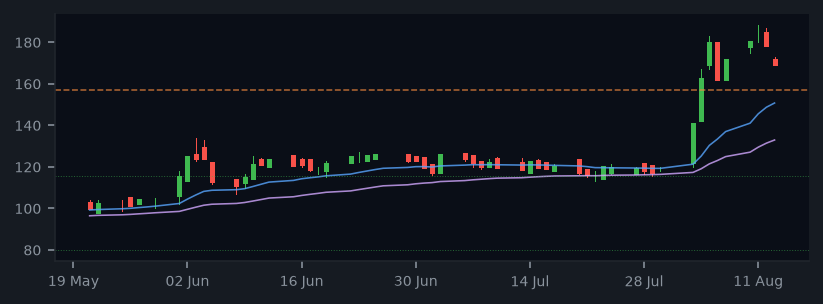
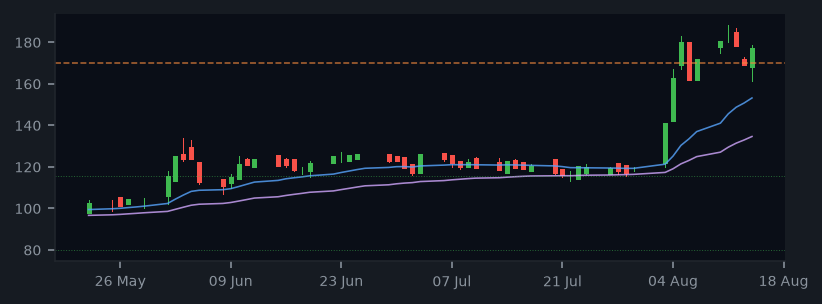
Update $(date +%Y-%m-%d) 28759711eb84732a7efa1cf244571953b1680fe4

diff --git a/archive/index.html b/archive/index.html
@@ -27,8 +27,8 @@ th { padding:10px 16px; text-align:left; color:#8b949e; font-size:12px; font-wei
         </tr>
         
         <tr style="border-bottom:1px solid #21262d;">
-            <td style="padding:10px 16px;font-size:14px;color:#e1e4e8;">2026-08-15</td>
-            <td style="padding:10px 16px;text-align:center;"><a href="2026-08-15/dashboard/" style="color:#58a6ff;text-decoration:none;">Dashboard</a></td>
+            <td style="padding:10px 16px;font-size:14px;color:#e1e4e8;">2026-08-16</td>
+            <td style="padding:10px 16px;text-align:center;"><a href="2026-08-16/dashboard/" style="color:#58a6ff;text-decoration:none;">Dashboard</a></td>
             <td style="padding:10px 16px;text-align:center;"><span style="color:#484f58;">—</span></td>
         </tr>
     </table>
